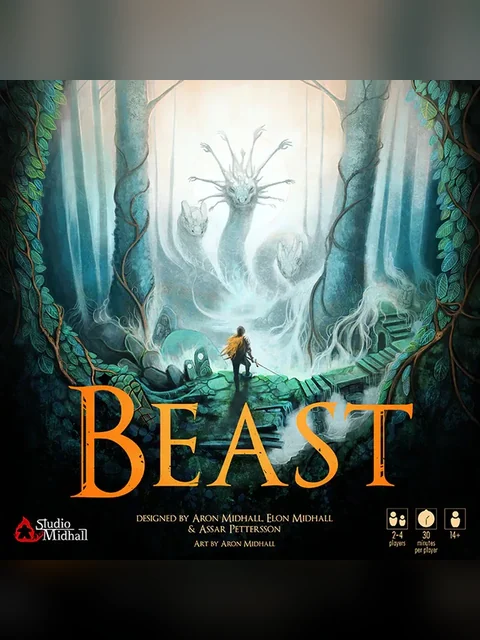
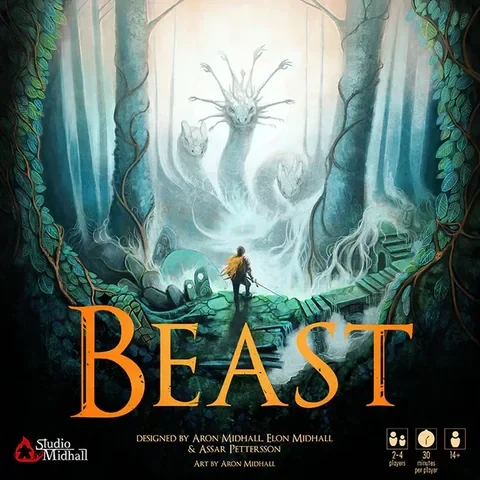
Ludoteca: Beast e Kingsburg senza bande, costruzione più robusta
Le copertine di Beast e Kingsburg tornano quadrate come le scatole. Lo script misura anche
le copertine sostituite in copertine/ (mancava, e la pubblicazione si fermava) e un gioco con
una scheda difettosa viene saltato invece di bloccare tutta la ludoteca.

Claude-Session: https://claude.ai/code/session_01Y2EWgvY3Gjd4junUDSpNkK

diff --git a/strumenti/costruisci.py b/strumenti/costruisci.py
@@ -6,7 +6,7 @@ index.html e il resto del repository, giochi.json e le copertine in img/.
 Uso: python3 strumenti/costruisci.py OUT
 Variabili: GITHUB_TOKEN (facoltativa, alza il limite di richieste), LUDOTECA_UTENTE.
 """
-import json, os, shutil, sys, urllib.request, urllib.error
+import json, os, shutil, sys, time, traceback, urllib.request, urllib.error
 
 UTENTE = os.environ.get("LUDOTECA_UTENTE", "Tannoiser2")
 TOKEN = os.environ.get("GITHUB_TOKEN", "")
@@ -14,6 +14,20 @@ QUI = os.path.dirname(os.path.dirname(os.path.abspath(__file__)))
 
 
 def scarica(url, api=False):
+    for tentativo in range(3):
+        try:
+            return _scarica(url, api)
+        except urllib.error.HTTPError as e:
+            if e.code < 500 and e.code != 429:
+                raise
+            ultimo = e
+        except urllib.error.URLError as e:
+            ultimo = e
+        time.sleep(3 * (tentativo + 1))
+    raise ultimo
+
+
+def _scarica(url, api=False):
     req = urllib.request.Request(url, headers={"User-Agent": "ludoteca"})
     if api:
         req.add_header("Accept", "application/vnd.github+json")
@@ -65,47 +79,67 @@ def main(out):
     for r in repository():
         if r.get("archived") or r.get("fork") or r.get("private"):
             continue
-        nome, ramo = r["name"], r.get("default_branch") or "main"
-        base = f"https://raw.githubusercontent.com/{UTENTE}/{nome}/{ramo}/ludoteca/"
-        grezza = scarica(base + "scheda.json")
-        if grezza is None:
-            continue
         try:
-            s = json.loads(grezza.decode("utf-8-sig"))
-        except ValueError as e:
-            print(f"!! {nome}: scheda.json non valida ({e}), salto")
+            g = scheda(r, out)
+        except Exception:
+            print(f"!! {r.get('name')}: errore, salto questo gioco")
+            traceback.print_exc()
             continue
-        if s.get("nascosto"):
-            continue
-        img = ""
-        # una copertina in copertine/<repository>.webp di questo repository ha la precedenza
-        locale = os.path.join(QUI, "copertine", nome + ".webp")
-        cop = open(locale, "rb").read() if os.path.exists(locale) else scarica(base + "copertina.webp")
-        if cop:
-            img = f"img/{nome}.webp"
-            with open(os.path.join(out, img), "wb") as f:
-                f.write(cop)
-        giochi.append({
-            "repo": nome,
-            "titolo": s.get("titolo") or nome,
-            "sottotitolo": s.get("sottotitolo", ""),
-            "descrizione": s.get("descrizione", ""),
-            "online": bool(s.get("online", False)),
-            "sezione": "originale" if s.get("sezione") == "originale" else "conversione",
-            "ordine": s.get("ordine", 1000),
-            "gioca": s.get("gioca") or f"https://{UTENTE.lower()}.github.io/{nome}/",
-            "codice": r["html_url"],
-            "img": img,
-            "w": misure[0] if misure else 0,
-            "h": misure[1] if misure else 0,
-        })
-        print(f"ok {nome}: {giochi[-1]['titolo']}" + ("" if img else " (senza copertina)"))
+        if g:
+            giochi.append(g)
+            print(f"ok {g['repo']}: {g['titolo']}" + ("" if g["img"] else " (senza copertina)"))
     if not giochi:
         sys.exit("Nessun gioco trovato: non pubblico una ludoteca vuota.")
     giochi.sort(key=lambda g: (g["ordine"], g["titolo"].lower()))
     with open(os.path.join(out, "giochi.json"), "w", encoding="utf-8") as f:
         json.dump(giochi, f, ensure_ascii=False, indent=1)
     print(f"{len(giochi)} giochi")
+
+
+def numero(v, predefinito=1000):
+    try:
+        return float(v)
+    except (TypeError, ValueError):
+        return predefinito
+
+
+def scheda(r, out):
+    if True:  # (blocco mantenuto per leggibilità del diff)
+        nome, ramo = r["name"], r.get("default_branch") or "main"
+        base = f"https://raw.githubusercontent.com/{UTENTE}/{nome}/{ramo}/ludoteca/"
+        grezza = scarica(base + "scheda.json")
+        if grezza is None:
+            return None
+        try:
+            s = json.loads(grezza.decode("utf-8-sig"))
+        except ValueError as e:
+            print(f"!! {nome}: scheda.json non valida ({e}), salto")
+            return None
+        if s.get("nascosto"):
+            return None
+        img = ""
+        # una copertina in copertine/<repository>.webp di questo repository ha la precedenza
+        locale = os.path.join(QUI, "copertine", nome + ".webp")
+        cop = open(locale, "rb").read() if os.path.exists(locale) else scarica(base + "copertina.webp")
+        misure = misure_webp(cop) if cop else None
+        if cop:
+            img = f"img/{nome}.webp"
+            with open(os.path.join(out, img), "wb") as f:
+                f.write(cop)
+        return {
+            "repo": nome,
+            "titolo": str(s.get("titolo") or nome),
+            "sottotitolo": s.get("sottotitolo", ""),
+            "descrizione": s.get("descrizione", ""),
+            "online": bool(s.get("online", False)),
+            "sezione": "originale" if s.get("sezione") == "originale" else "conversione",
+            "ordine": numero(s.get("ordine")),
+            "gioca": s.get("gioca") or f"https://{UTENTE.lower()}.github.io/{nome}/",
+            "codice": r["html_url"],
+            "img": img,
+            "w": misure[0] if misure else 0,
+            "h": misure[1] if misure else 0,
+        }
 
 
 if __name__ == "__main__":
